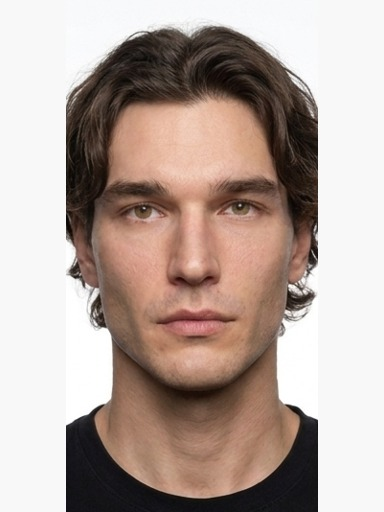
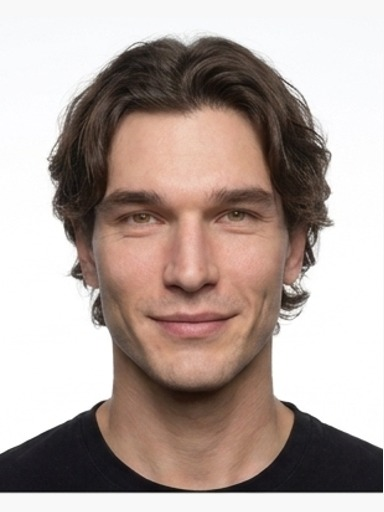
234234

Changed region(s): [[0.0, 0.0312, 1.0, 1.0], [0.2812, 0.6875, 0.3125, 0.7812], [0.2812, 0.875, 0.3125, 0.9062]]

diff --git a/src/app/models/page.js b/src/app/models/page.js
@@ -35,8 +35,8 @@ const CATEGORIES = [
         code: 'A', name: '유럽계 · 브라운 중단발 · 차분/미니멀',
         size: '키 168cm · 슬림 (Max 170 기준 살짝 작게)',
         identity: '유럽계 성인 여성 20대 후반 · 갸름한 타원형 · 짙은 초콜릿 브라운 중단발 웨이브 · 차분·미니멀 · 자연 피부질감',
-        ref: `${FTP}/B_A_rep.jpg?v=hair`,
-        sheets: { face: `${FTP}/B_A_face.png?v=hairB2`, expr: `${FTP}/B_A_expr.png?v=hair`, body: `${FTP}/B_A_body.png?v=v1`, pose: `${FTP}/B_A_pose.png?v=v2` },
+        ref: `${FTP}/B_A_rep.jpg?v=smile`,
+        sheets: { face: `${FTP}/B_A_face.png?v=hairB2`, expr: `${FTP}/B_A_expr.png?v=hair`, body: `${FTP}/B_A_body.png?v=hair`, pose: `${FTP}/B_A_pose.png?v=v2` },
         soulId: null, status: '얼굴 시트 ✅ · 표정/바디/포즈 대기',
       },
       {
@@ -52,16 +52,16 @@ const CATEGORIES = [
         code: 'C', name: '유럽계 · 애쉬 숏보브 · 쿨/미니멀',
         size: '키 169cm · 슬림 (Max 170 기준 살짝 작게)',
         identity: '유럽계 성인 여성 20대 중후반 · 슬림 타원형 · 애쉬 브라운 숏 보브(턱선) · 쿨·미니멀·앤드로지너스 · 자연 피부질감',
-        ref: `${FTP}/B_C_rep.jpg?v=hair`,
-        sheets: { face: `${FTP}/B_C_face.png?v=hairC2`, expr: `${FTP}/B_C_expr.png?v=hair`, body: `${FTP}/B_C_body.png?v=v1`, pose: `${FTP}/B_C_pose.png?v=v3` },
+        ref: `${FTP}/B_C_rep.jpg?v=smile`,
+        sheets: { face: `${FTP}/B_C_face.png?v=hairC2`, expr: `${FTP}/B_C_expr.png?v=hair`, body: `${FTP}/B_C_body.png?v=hair`, pose: `${FTP}/B_C_pose.png?v=v3` },
         soulId: null, status: '얼굴 시트 ✅ · 표정/바디/포즈 대기',
       },
       {
         code: 'D', name: '동아시아계 · 롱 블랙 스트레이트 · 쿨/에디토리얼',
         size: '키 173cm · 슬림 장신 (Max 170 기준 살짝 크게)',
         identity: '동아시아계 성인 여성 20대 초중반 · 슬림 타원형 · 롱 블랙 스트레이트(중앙 가르마) · 쿨·에디토리얼 · 자연 피부질감',
-        ref: `${FTP}/B_D_rep.jpg?v=hair`,
-        sheets: { face: `${FTP}/B_D_face.png?v=hairD3`, expr: `${FTP}/B_D_expr.png?v=hair`, body: `${FTP}/B_D_body.png?v=v1`, pose: `${FTP}/B_D_pose.png?v=v3` },
+        ref: `${FTP}/B_D_rep.jpg?v=neutral`,
+        sheets: { face: `${FTP}/B_D_face.png?v=hairD3`, expr: `${FTP}/B_D_expr.png?v=hair`, body: `${FTP}/B_D_body.png?v=hair`, pose: `${FTP}/B_D_pose.png?v=v3` },
         soulId: null, status: '얼굴 시트 ✅ · 표정/바디/포즈 대기',
       },
     ],
@@ -73,8 +73,8 @@ const CATEGORIES = [
         code: 'A', name: '유럽계 · 짧은 다크브라운 · 클린컷/캐주얼',
         size: '키 180cm · 슬림 애슬레틱 (Max 170 이상)',
         identity: '유럽계 성인 남성 20대 후반~30대 · 클린컷 · 짧은 다크브라운 · 정돈된 캐주얼 · 자연 피부질감',
-        ref: `${FTP}/M_A_rep.jpg?v=hair`,
-        sheets: { face: `${FTP}/M_A_face.png?v=hairMA2`, expr: `${FTP}/M_A_expr.png?v=hair`, body: `${FTP}/M_A_body.png?v=v1`, pose: `${FTP}/M_A_pose.png?v=v2` },
+        ref: `${FTP}/M_A_rep.jpg?v=smile`,
+        sheets: { face: `${FTP}/M_A_face.png?v=hairMA2`, expr: `${FTP}/M_A_expr.png?v=hair`, body: `${FTP}/M_A_body.png?v=hair`, pose: `${FTP}/M_A_pose.png?v=v2` },
         soulId: null, status: '4종 완성 ✅ (착석=네이비 Max)',
       },
     ],
